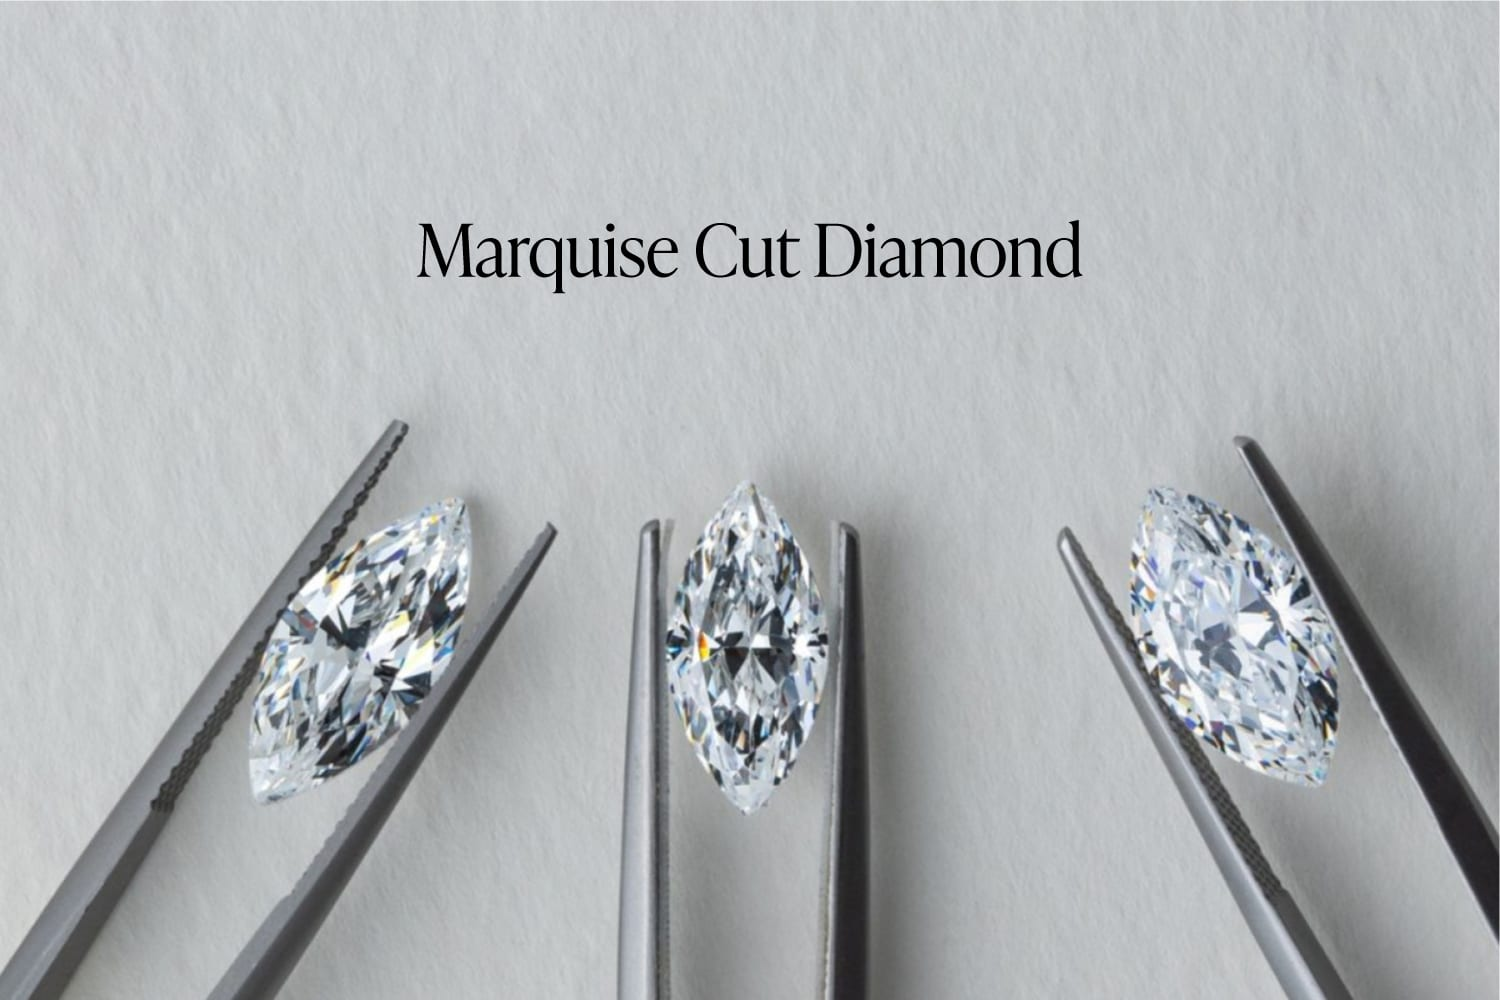
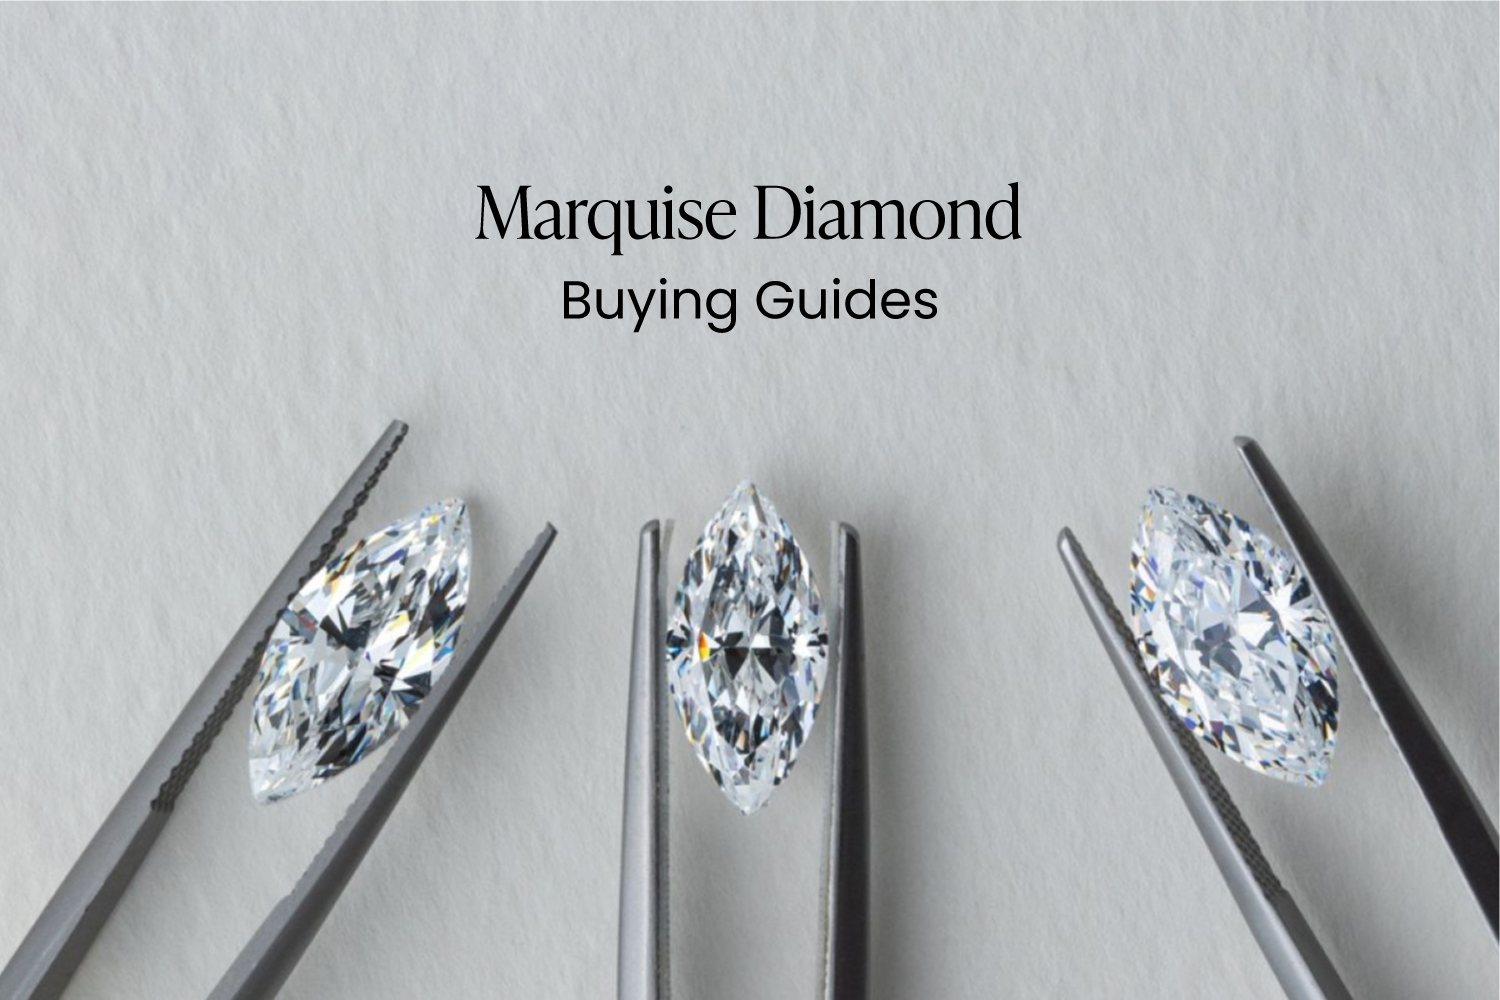
Update marquise category OG image and meta description
New OG image (Marquise Diamond Buying Guides JPG) replaces placeholder.
Meta description updated to reflect 53 posts, real prices from $2,084–$4,909,
and today's new guides (under-3K, under-5K, how-to-buy).

Changed region(s): [[0.276, 0.186, 0.736, 0.341]]

diff --git a/src/app/category/[slug]/page.tsx b/src/app/category/[slug]/page.tsx
@@ -35,7 +35,7 @@ const categoryDescriptions: Record<string, string> = {
   "emerald-cut-diamond": "Emerald cut diamond buying guides by Farzana Hasan: the hall-of-mirrors effect explained, VS1 clarity rule, ideal L/W ratios, real certified market prices from 1ct to 5ct, settings, lab-grown savings, and every style covered.",
   "radiant-cut-diamond": "Radiant cut diamond buying guides by Farzana Hasan: 70-facet brilliance explained, VS2 clarity floor, elongated vs square radiant, real certified market prices from 1ct to 5ct natural and lab-grown, halo and solitaire settings, and every comparison covered.",
   "asscher-cut-diamond": "Asscher cut diamond buying guides by Farzana Hasan: Hall of Mirrors effect explained, VVS2 clarity rule, real certified prices from $2,464 at 1ct natural to $9,776 at 4ct lab-grown, step-cut settings, carat weight guide, and every shape comparison covered.",
-  "marquise-cut-diamond": "Marquise cut diamond buying guides by Farzana Hasan: the 5 proportion mistakes that hurt fire, bow-tie detection on HD video, length-to-width ratio decoded, real Blue Nile prices from $1,900 at 1ct natural to $12,500 at 3ct lab-grown, settings that protect pointed tips, and every comparison covered.",
+  "marquise-cut-diamond": "53 marquise diamond buying guides by Farzana Hasan: bow-tie video check, L:W ratio sweet spot, color-metal lock, real certified prices from $2,084 under $3K to $4,909 under $5K, settings that protect pointed tips, lab vs natural comparison, and every shape covered.",
 };
 
 const categorySeoTitles: Record<string, string> = {
